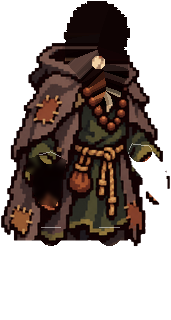
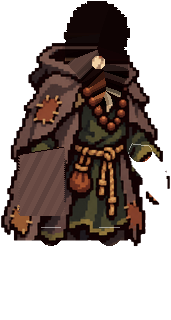
1032: townsfolk turn through a rest pose, the guard looks back with his head, hens wander and come to the grain, the hero reads a scroll

Changed region(s): [[0.0877, 0.4375, 0.3801, 0.6875]]

diff --git a/live/scene.js b/live/scene.js
@@ -819,55 +819,75 @@ void main(){ vec2 q = v_uv * 2.0 - 1.0; float r = length(q), a = atan(q.y, q.x);
   function drawFolk(f, n, m, R, GT, Y, sx, sy) {
     const i = f.i, FD = D.FOLK[f.role], X = sx(f.x), Yg = sy(f.y), id = 'npc' + i;
     if (f.role === 'hen') { const nm = ['town_hen_white', 'town_hen_red', 'town_hen_grey'][i % 3], RG = RIGS[nm]; if (!RG || !window.ASSETS[nm + '_w']) return;
-      const face = TOWN_FACE(m, n) >= n.x ? 1 : -1, [w, hh] = SZ(nm), ph = GT * 1.3 + i * 2.1, peck = Math.max(0, Math.sin(ph)) ** 6, neck = 0.9 * peck + 0.06 * Math.sin(GT * 3.1 + i), tail = 0.08 * Math.sin(GT * 2.3 + i * 1.7);
+      // (TASKS 1032) a hen walks with a bob and a rock, its neck out; at the grain it pecks quicker; startled, the tail flicks up
+      const run = SS(2, 24, Math.hypot(f.vx, f.vy)), fed = R.grain && GT - R.grain.t < 7 && Math.hypot(f.x - R.grain.x, f.y - R.grain.y) < 26;
+      const face = f.face || (TOWN_FACE(m, n) >= n.x ? 1 : -1), [w, hh] = SZ(nm), ph = GT * (fed ? 3.4 : 1.3) + i * 2.1, peck = (1 - run) * Math.max(0, Math.sin(ph)) ** (fed ? 3 : 6);
+      const st = f.dist / 5, hop = run * 2.2 * Math.abs(Math.sin(st)), rock = run * 0.09 * Math.sin(st), scare = GT - (f.scareT ?? -9);
+      const neck = 0.9 * peck + 0.06 * Math.sin(GT * 3.1 + i) - 0.22 * run, tail = 0.08 * Math.sin(GT * 2.3 + i * 1.7) - (scare >= 0 ? 0.5 * SS(0, 0.08, scare) * (1 - SS(0.3, 0.9, scare)) : 0);
       Y.push([f.y, () => { L.shadow(X, Yg + 1, 9, 3, 0.4);
-        L.inked(() => L.sprite(nm, 0, 0, { m: M.of(M.t(X, Yg), M.s(face, 1)), w, h: hh, pivot: [w / 2, hh], u: { wtex: G.tex(nm + '_w'), wsz: [RG.w, RG.h], bone0: [RG.bones[0][0] / RG.w, RG.bones[0][1] / RG.h, neck, 1], bone1: [RG.bones[1][0] / RG.w, RG.bones[1][1] / RG.h, tail, 1] } }), { r: 2, n: 8, col: [0.09, 0.04, 0.04], dy: 0 }); }]);
+        L.inked(() => L.sprite(nm, 0, 0, { m: M.of(M.t(X, Yg - hop), M.r(rock), M.s(face, 1)), w, h: hh, pivot: [w / 2, hh], u: { wtex: G.tex(nm + '_w'), wsz: [RG.w, RG.h], bone0: [RG.bones[0][0] / RG.w, RG.bones[0][1] / RG.h, neck, 1], bone1: [RG.bones[1][0] / RG.w, RG.bones[1][1] / RG.h, tail, 1] } }), { r: 2, n: 8, col: [0.09, 0.04, 0.04], dy: 0 }); }]);
       return; }
     const nm = 'town_' + f.role; if (!RIGS[nm] || !window.ASSETS[nm + '__body']) return;
     const H = SZ(nm)[1], c = D.folkClock(f.role, i, GT), u = c.u, T = m.town.svc, route = n.route;
     // the talk's weight: in over 0.35 s from the first line, out over 0.45 s when the pair is said or the hero walks off
-    const e0 = Math.min(f.sayT + D.FOLK_SAY, f.byeT > f.sayT ? f.byeT : 1e9), tw = SS(f.sayT, f.sayT + 0.35, GT) * (1 - SS(e0, e0 + 0.45, GT));
+    const e0 = Math.min(f.sayT + D.FOLK_SAY, f.byeT > f.sayT ? f.byeT : 1e9); let tw = SS(f.sayT, f.sayT + 0.35, GT) * (1 - SS(e0, e0 + 0.45, GT));
     const talkNow = GT >= f.sayT && GT < e0 + 0.2, wf = TOWN_FACE(m, n) >= n.x ? 1 : -1;
     // the child, stopped, turns to the nearest hen to throw it grain
     const hen = f.role === 'child' && route && !f.go && !talkNow ? (R.folk || []).filter((q) => q.role === 'hen').sort((a, b) => Math.hypot(a.x - f.x, a.y - f.y) - Math.hypot(b.x - f.x, b.y - f.y))[0] : null;
-    const face = hen ? (hen.x >= f.x ? 1 : -1) : (route || talkNow) && f.face ? f.face : wf;
+    // a talk with the hero on the far side of the work (TASKS 1032): the work eases into a rest pose (hands in to the body, the tool
+    // upright), the rig turns there, and only then does the talk pose come in; the same way back after. Turned straight from the
+    // work pose the whole rig flipped with the tool in it: the smith's hammer jumped 54 px in a frame. rk: the rest's weight
+    const TURN = 0.3, fIn = f.sayT + TURN, fOut = Math.max(e0, fIn + TURN) + TURN, back = !route && FD.lines && f.face && f.face !== wf && GT >= f.sayT && GT < fOut + TURN;
+    let rk = 0;
+    if (back) { rk = GT < fIn ? SS(f.sayT, fIn, GT) : GT < fOut - TURN ? 1 - SS(fIn, fIn + TURN, GT) : GT < fOut ? SS(fOut - TURN, fOut, GT) : 1 - SS(fOut, fOut + TURN, GT);
+      tw = SS(fIn, fIn + TURN, GT) * (1 - SS(fOut - TURN, fOut, GT)); }
+    const face = hen ? (hen.x >= f.x ? 1 : -1) : back ? (GT >= fIn && GT < fOut ? f.face : wf) : (route || talkNow) && f.face ? f.face : wf;
+    const RG = RIGS[nm], s = H / RG.h, gy = RG.foot ?? RG.footL[1], handAt = (sd, k = 1, dy = 0) => [X + face * k * (RG['hand' + sd][0] - RG.gap) * s, Yg + (RG['hand' + sd][1] + dy - gy) * s];
     const P = (dx, dy) => [X + face * dx * H, Yg + dy * H], mir = (q) => [X + (q[0] - X) * face * wf, q[1]];
     const talkR = P(0.27, -0.52 + 0.025 * Math.sin(GT * 5.3 + i)), talkL = P(0.08, -0.36);
     const atStop = route && !f.go, pu = GT - f.t0, stop = route && f.way >= 0 ? route[f.way] : null, moving = Math.hypot(f.vx, f.vy) > 2;
-    let tg = {}, hold = null, lean = 0, headR = 0, crouch = 0, front = null, robe = null, fx = null;
+    let tg = {}, hold = null, lean = 0, headR = 0, headF = 1, crouch = 0, front = null, robe = null, fx = null;
     if (f.role === 'smith') {
       // a blow every loop, every 4th a breather (the hammer down, the piece turned in the tongs): up over the head, down faster and
       // faster onto the anvil, a small rebound, back up to the start
       const A = T.anvil, top = [sx(A.x) - wf * 4, sy(A.y) - 0.82 * SZ('anvil_tw')[1]], brk = c.n % FD.rest === FD.rest - 1, hit = FD.hit;
-      const imp = [top[0] - wf * 21, top[1] - 5], lift = [imp[0] - wf * 3, imp[1] - 10], cock = [X + wf * 0.08 * H, Yg - 0.96 * H];
-      // the hammer's angle (as if facing right) rides the same path: its handle back over the shoulder at the top, level on the blow
-      const UPA = -2.6, IMPA = 0.12, RESTA = 0.9;
+      const imp = [top[0] - wf * 21, top[1] - 5], cock = [X + wf * 0.08 * H, Yg - 0.96 * H];
+      // the hammer's angle (as if facing right) rides the same path: its handle back over the shoulder at the top, level on the blow.
+      // Off the rebound it goes straight back up, over the loop's turn to the top (TASKS 1032: it lay on the anvil 0.55 s)
+      const UPA = -2.6, IMPA = 0.12, RESTA = 0.9, R0 = hit + 0.1, span = 1 - R0 + 0.42, x0 = (1 - R0) / span;
+      const raise = (x) => { const k = E01(x); return [lerp2(imp, cock, k), lerp1(IMPA, UPA, k)]; };
       let hr, ha;
-      if (brk) { const k = Math.sin(Math.PI * u) ** 2; hr = lerp2(lift, [X + wf * 0.22 * H, Yg - 0.36 * H], k); ha = lerp1(IMPA - 0.2, RESTA, k); }
-      else if (u < 0.42) { const k = E01(u / 0.42); hr = lerp2(lift, cock, k); ha = lerp1(IMPA - 0.2, UPA, k); }
-      else if (u < hit) { const x = (u - 0.42) / (hit - 0.42); hr = lerp2(cock, imp, x * x); ha = lerp1(UPA, IMPA, x * x); }
-      else if (u < hit + 0.1) { const b = Math.sin(Math.PI * (u - hit) / 0.1); hr = [imp[0], imp[1] - 5 * b]; ha = IMPA - 0.15 * b; }
-      else { const k = E01((u - hit - 0.1) / (0.9 - hit)); hr = lerp2(imp, lift, k); ha = lerp1(IMPA, IMPA - 0.2, k); }
+      if (brk) { const k = Math.sin(Math.PI * u) ** 2, [p0, a0] = raise(x0); hr = lerp2(p0, [X + wf * 0.22 * H, Yg - 0.36 * H], k); ha = lerp1(a0, RESTA, k); }
+      else if (u < 0.42 || u >= R0) [hr, ha] = raise(((u - R0 + 1) % 1) / span);
+      // down faster and faster, meeting the anvil at a little over its mean speed (a squared ease met it at twice that: the hand broke
+      // 6 px in a frame), then a rebound that starts from rest
+      else if (u < hit) { const x = (u - 0.42) / (hit - 0.42), q = 1.9 * x * x - 0.9 * x * x * x; hr = lerp2(cock, imp, q); ha = lerp1(UPA, IMPA, q); }
+      else { const b = Math.sin(Math.PI * (u - hit) / 0.1) ** 2; hr = [imp[0], imp[1] - 5 * b]; ha = IMPA - 0.15 * b; }
       const hl = [top[0] - wf * 9, top[1] + 3 - (brk ? 7 * Math.sin(Math.PI * u) ** 2 : 0)];
       tg = { R: lerp2(mir(hr), talkR, tw), L: lerp2(mir(hl), talkL, tw) };
       hold = { R: TOOL('town_tool_hammer', 0.84, { abs: lerp1(ha, RESTA, tw) }), L: TOOL('town_tool_tongs', 0.7, { rel: -1.1 }) };
-      lean = face * (0.05 + 0.05 * (!brk && u > 0.45 && u < hit + 0.1 ? 1 : 0)) * (1 - tw); headR = 0.14 * (1 - tw) - 0.05 * tw;
+      // he leans into the blow and his knees give on it, eased: the lean switched on in a frame
+      const into = brk ? 0 : SS(0.38, 0.5, u) * (1 - SS(hit + 0.05, hit + 0.3, u));
+      lean = face * (0.05 + 0.05 * into) * (1 - tw); crouch = 9 * (brk ? 0 : bump01(u, 0.45, hit + 0.3)) * (1 - tw); headR = 0.14 * (1 - tw) - 0.05 * tw;
       if (!brk && u >= hit && (u - hit) * c.per < 0.45 && tw < 0.5) fx = { k: 'spark', x: top[0], y: top[1], a: (u - hit) * c.per, seed: c.n * 7 + i };
     } else if (f.role === 'keeper') {
       // leans on his staff and dozes off (the head sinks, jerks up), now and then pokes the fire: embers fly up on the poke
-      const Fp = [sx(T.fire.x), sy(T.fire.y)], poke = bump01(u, 0.12, 0.42), dz = SS(0.5, 0.9, u) * (1 - SS(0.93, 0.97, u));
-      const reachP = [X + (Fp[0] - X) * 0.42, Yg - 0.36 * H];
-      tg = { R: lerp2(lerp2(P(0.2, -0.5), mir(reachP), poke), talkR, tw * 0.6) };
-      hold = { R: TOOL('town_tool_staff', 0.5, { abs: -Math.PI / 2 + 0.06 * Math.sin(GT * 0.9 + i) - poke * 0.95 * (1 - tw) }) };
-      headR = (0.32 * dz + 0.1 * poke) * (1 - tw) - 0.05 * tw; lean = face * (0.04 * dz + 0.1 * poke) * (1 - tw);
+      // the staff stands out in front of him, its crook leaning off his face (TASKS 1032: it covered it); the poke is the arm's: the hand
+      // goes out and down by IK, he crouches and leans in, and the staff turns its foot to the embers
+      const Fp = [sx(T.fire.x), sy(T.fire.y)], poke = bump01(u, 0.12, 0.42) * (1 - tw), dz = SS(0.5, 0.9, u) * (1 - SS(0.93, 0.97, u));
+      const lean0 = 0.2 + 0.05 * Math.sin(GT * 0.9 + i), stand = P(0.32, -0.47), out = [X + (Fp[0] - X) * 0.5, Yg - 0.3 * H], hand = lerp2(stand, mir(out), poke);
+      const ember = [Fp[0], Fp[1] - 6], dn = Math.atan2(ember[1] - hand[1], ember[0] - hand[0]), aim0 = face > 0 ? dn + Math.PI : -dn, aim = -Math.PI / 2 + lean0 + wrapPi(aim0 + Math.PI / 2 - lean0);
+      tg = { R: lerp2(hand, talkR, tw * 0.6) };
+      hold = { R: TOOL('town_tool_staff', 0.5, { abs: lerp1(-Math.PI / 2 + lean0, aim, poke) }) };
+      headR = (0.32 * dz + 0.1 * poke) * (1 - tw) - 0.05 * tw; lean = face * (0.04 * dz + 0.16 * poke) * (1 - tw); crouch = 14 * poke;
       if (u > 0.27 && u < 0.27 + 1.2 / c.per && tw < 0.5) fx = { k: 'embers', x: Fp[0], y: Fp[1] - 14, a: (u - 0.27) * c.per, seed: c.n * 5 + i };
     } else if (f.role === 'guard') {
       // shifts his weight, now and then looks back over the yard, the spear upright in his hand
-      const look = u > 0.52 && u < 0.7 && tw < 0.5;
+      // the look back is the head's alone (TASKS 1032): mirroring the whole guard swung his arm 39 px and the spear across
+      const look = (1 - SS(0, 0.5, tw)) * SS(0.52, 0.57, u) * (1 - SS(0.65, 0.7, u));
       tg = { R: lerp2(P(0.24, -0.42 - 0.01 * Math.sin(GT * 0.7 + i)), talkR, tw * 0.5) };
       hold = { R: TOOL('town_tool_spear', 0.58, { abs: -Math.PI / 2 - 0.05 }) };
-      lean = 0.025 * Math.sin(2 * Math.PI * u) * face; headR = -0.03 + 0.05 * Math.sin(4 * Math.PI * u);
-      if (look) return drawFolkRig(f, n, nm, X, Yg, H, -face, GT, Y, { hold, handTarget: (sd) => (sd === 'R' ? [X - face * 0.24 * H, Yg - 0.42 * H] : null), lean: -lean, headR });
+      lean = 0.025 * Math.sin(2 * Math.PI * u) * face; headR = -0.03 + 0.05 * Math.sin(4 * Math.PI * u) * (1 - look) - 0.06 * look; headF = Math.cos(Math.PI * look);
     } else if (f.role === 'porter') {
       // the crate: in both hands in front of the chest while he carries it; at a stop he bends, lifts it off the floor or sets it down,
       // only what the sim says he did there (f.lift): a crate is never drawn into or out of hands that did not hold it
@@ -904,22 +924,28 @@ void main(){ vec2 q = v_uv * 2.0 - 1.0; float r = length(q), a = atan(q.y, q.x);
       // reads at the lectern, turns a page, then lifts a flask and burns it: a cold blue flame in the hand
       const Lc = T.lectern, book = [sx(Lc.x) - wf * 2, sy(Lc.y) - 0.72 * SZ('lectern_tw')[1]], page = bump01(u, 0.1, 0.32), flask = bump01(u, 0.4, 0.85);
       const hr = [book[0] - wf * (10 - 16 * page), book[1] - 4 * page];
-      tg = { R: lerp2(mir(hr), talkR, tw), L: flask > 0.01 && tw < 0.99 ? lerp2(P(0.05, -0.36), P(0.24, -0.8), flask * (1 - tw)) : null };
+      // the flask hand always has a target, from where it hangs at rest: let go to the rig's own rest it clicked 18 px (TASKS 1032)
+      const lf = 1 + 2.5 * Math.sin(GT * 1.7 + i * 1.7);
+      tg = { R: lerp2(mir(hr), talkR, tw), L: lerp2(handAt('L', 1, lf), P(0.24, -0.8), flask * (1 - tw)) };
+      hold = { L: TOOL('it_mp', 0.3, { abs: -Math.PI / 2 + 0.25 * flask * (1 - tw), len: 0.15 * H }) };
       robe = { lift: 1, headR: lerp1(0.18 * (1 - flask) - 0.12 * flask, -0.05, tw) };
       const burn = bump01(u, 0.5, 0.78) * (1 - tw); if (burn > 0.02) fx = { k: 'flame', hand: 'L', amt: burn, seed: c.n + i };
     }
+    if (rk > 0) { for (const sd of ['L', 'R']) tg[sd] = lerp2(tg[sd] || handAt(sd), handAt(sd, 0.35), rk);
+      if (hold) hold = Object.fromEntries(Object.entries(hold).map(([sd, q]) => [sd, q.abs === undefined ? q : Object.assign({}, q, { abs: lerp1(q.abs, -Math.PI / 2, rk) })]));
+      lean *= 1 - rk; crouch *= 1 - rk; headR = lerp1(headR, -0.08, rk); if (robe) robe.headR = lerp1(robe.headR, -0.08, rk); if (rk > 0.3) fx = null; }
     if (tw > 0 && !robe) headR = lerp1(headR, -0.06 + 0.04 * Math.sin(GT * 4.1 + i), tw);
-    drawFolkRig(f, n, nm, X, Yg, H, face, GT, Y, { hold, handTarget: (sd) => tg[sd] || null, lean, headR, crouch, front, robe, fx });
+    drawFolkRig(f, n, nm, X, Yg, H, face, GT, Y, { hold, handTarget: (sd) => tg[sd] || null, lean, headR, headF, crouch, front, robe, fx });
     // the crate the porter set down by the merchant waits there until he brings the next
     if (f.role === 'porter' && !f.load && route) { const dp = route.find((q) => q.act === 'drop'), atDrop = atStop && f.lift === 'drop';
       if (dp && !atDrop) { const cw = 0.3 * H, x = sx(dp.x) - 0.33 * H, y = sy(dp.y) - 0.14 * H; Y.push([dp.y - 1, () => L.inked(() => L.sprite('town_tool_crate', x - cw / 2, y - cw / 2, { w: cw, h: cw }), { r: 2, n: 8, col: [0.09, 0.04, 0.04], dy: 0 })]); } }
   }
   function drawFolkRig(f, n, nm, X, Yg, H, face, GT, Y, o) {
     const id = 'npc' + f.i, seed = f.i * 1.7, fx = o.fx;
-    Y.push([f.y, () => { L.shadow(X, Yg + 2, 0.24 * H, 6, 0.45);
+    Y.push([f.y, () => { L.shadow(X, Yg + 2, 0.24 * H, 6, 0.45); L.joint(id + '_view', 'face', [face, 0]);
       let hand = null;
       L.inked(() => { const r = RIGS[nm].neck ? MONSTERS.robed({ id, n: nm, x: X, y: Yg, H, t: GT, face, seed, dist: f.dist, vx: f.vx, vy: f.vy, U: {}, hold: o.hold, handTarget: o.handTarget, lift: o.robe && o.robe.lift, headR: o.robe && o.robe.headR })
-        : MONSTERS.biped({ id, n: nm, x: X, y: Yg, H, face, t: GT, seed, dist: f.dist, vx: f.vx, vy: f.vy, U: {}, Ufar: {}, hold: o.hold, handTarget: o.handTarget, lean: o.lean, headR: o.headR, crouch: o.crouch, front: o.front });
+        : MONSTERS.biped({ id, n: nm, x: X, y: Yg, H, face, t: GT, seed, dist: f.dist, vx: f.vx, vy: f.vy, U: {}, Ufar: {}, hold: o.hold, handTarget: o.handTarget, lean: o.lean, headR: o.headR, headF: o.headF, crouch: o.crouch, front: o.front });
         if (r && fx && fx.hand) hand = r.hand ? r.hand(fx.hand) : r.R2U(r.arms[fx.hand].Hd[0], r.arms[fx.hand].Hd[1]); }, { r: 2, n: 8, col: [0.09, 0.04, 0.04], dy: 0 });
       if (fx) RIM.folk.push(Object.assign({}, fx, hand ? { x: hand[0], y: hand[1] } : {}));
       if (fx && (fx.k === 'grain' || fx.k === 'dust')) folkDust(fx, GT); }]);
@@ -1353,6 +1379,9 @@ void main(){ vec2 q = v_uv * 2.0 - 1.0; float r = length(q), a = atan(q.y, q.x);
       const l = armLen(arms.L); reach(arms.L, 0.25 * l + Math.cos(aimL) * 0.6 * l, Math.sin(aimL) * 0.6 * l, castE);
       pose(arms.R, -0.25, 0.35, castE);
     }
+    // reading a scroll (TASKS 1032): the free hand holds it out before the chest, the sword arm lowered
+    const readE = h.read && swingK === 0 && whirlE === 0 && castE === 0 ? SS(0, 0.3, GT - h.read.t0) : 0;
+    if (readE > 0) { const l = armLen(arms.L); reach(arms.L, 0.6 * l, 0.12 * l, readE); pose(arms.R, -0.2, 0.3, readE); }
     if (dashE > 0) { pose(arms.L, 0.55 * dashF, 0.45, dashE); pose(arms.R, 0.55 * dashF, 0.45, dashE); }
     if (hurtE > 0 && swingK === 0) { pose(arms.L, -0.45, 0.5, hurtE); pose(arms.R, -0.3, 0.45, hurtE); }
     if (o.victory) { reach(arms.R, armLen(arms.R) * 0.32, -armLen(arms.R) * 0.88, 1); pose(arms.L, -0.25, 0.2, 1); bladeA = -Math.PI / 2 + 0.08; }
@@ -1379,6 +1408,8 @@ void main(){ vec2 q = v_uv * 2.0 - 1.0; float r = length(q), a = atan(q.y, q.x);
     const shield = (u) => { if (!GR.shield) return; const [tex, hh] = GR.shield, A = arms.L, E = R2U(jL.E[0], jL.E[1]), Hd = R2U(jL.Hd[0], jL.Hd[1]), ww = hh * G.tex(tex).w / G.tex(tex).h;
       const c = [E[0] + 0.55 * (Hd[0] - E[0]) - fX * 4, E[1] + 0.55 * (Hd[1] - E[1])], back = backK > 0.5;
       L.sprite(tex, 0, 0, { m: M.of(M.t(c[0], c[1]), M.r(fallR + bodyR + 0.25 * (A.r2 - 0.18)), M.s(fX, 1)), w: ww, h: hh, pivot: [ww / 2, hh / 2], u: back ? Object.assign({}, u, { grade: [0.35, 0.45, 0, 1] }) : tinted(u, GR.shieldTint) }); };
+    const scroll = () => { const Hd = R2U(jL.Hd[0], jL.Hd[1]), w = 22, hh = w * 177 / 228;
+      L.sprite('it_scroll', 0, 0, { m: M.of(M.t(Hd[0], Hd[1]), M.r(fallR + bodyR - 0.35 * fX), M.s(fX, 1)), w, h: hh, pivot: [w * 0.45, hh * 0.55], u: Object.assign({}, U, { alpha: alpha * SS(0.3, 0.5, readE) }) }); };
     const weapon = () => { if (!W || SC.hide.weapon) return; const [tex, len] = W, Hd = R2U(jR.Hd[0], jR.Hd[1]), b0 = -0.95 + arms.R.r1 * 0.5, ba = bladeA !== null ? bladeA : b0 + (0.9 - b0) * castE;
       let sa = Math.atan2(Math.sin(ba), fX * Math.cos(ba)) + fallR + bodyR;           // screen angle of the blade, squeezed with the rig
       // a slash sweeps flat around the body: on the floor plane the camera squeezes depth to DEPTH_K, so a blade pointing up or down
@@ -1395,7 +1426,7 @@ void main(){ vec2 q = v_uv * 2.0 - 1.0; float r = length(q), a = atan(q.y, q.x);
     L.joint(id + '_view', 'back', [backK, 0]);
     L.joint(id + '_view', 'face', [face, 0]);
     const all = () => {
-      const castFront = castE > 0.3;   // the casting hand reaches forward across the chest, in front of the body
+      const castFront = castE > 0.3 || readE > 0.3;   // the casting (or reading) hand reaches forward across the chest, in front of the body
       const bodyAt = { m: M.of(M.t(...hipS), M.r(fallR + bodyR), M.s(fX, 1)), w: RG.w * s, h: RG.h * s, pivot: [Hc[0] * s, Hc[1] * s] };
       if (!castFront) drawArm('L', Ufar);
       // seen from the front the cape's flap hangs over the far arm, as painted, but behind both legs
@@ -1407,7 +1438,7 @@ void main(){ vec2 q = v_uv * 2.0 - 1.0; float r = length(q), a = atan(q.y, q.x);
       if (backK < 1 && GR.helm) L.sprite('hero__head_' + GR.helm, 0, 0, Object.assign({ u: Object.assign(tinted(U, GR.helmTint), { snap: 2 * L.SNAP }) }, bodyAt));
       if (backK > 0 && window.ASSETS.hero__body_back) L.sprite(GR.back, 0, 0, Object.assign({ u: Object.assign({}, U, { alpha: alpha * backK }, soft('hero__body_back', capeB, GR.helm ? 0 : hairA)) }, bodyAt));
       if (backK > 0 && GR.helm) L.sprite('hero__head_back_' + GR.helm, 0, 0, Object.assign({ u: Object.assign({}, tinted(U, GR.helmTint), { alpha: alpha * backK }) }, bodyAt));
-      if (castFront) { drawArm('L', backK > 0.5 ? Ufar : U); shield(backK > 0.5 ? Ufar : U); }
+      if (castFront) { drawArm('L', backK > 0.5 ? Ufar : U); shield(backK > 0.5 ? Ufar : U); if (readE > 0.3) scroll(); }
       if (!behind) { drawArm('R', U); weapon(); }
     };
     all();
@@ -4215,6 +4246,20 @@ void main(){ vec2 q = v_uv * 2.0 - 1.0; float r = length(q), a = atan(q.y, q.x);
       transitions.folk_porter_take = Array.from({ length: 110 }, (_, k) => { const S = structuredClone(base); S.t += k / 60; return S; }); folkSubj.folk_porter_take = 'npc' + i; }
     { let i = 0; const base = folkS((S, R, m, h) => { const f = folkAt(R, 'smith'); i = f.i; const c = D.folkClock('smith', i, S.t); S.t += ((0.72 - c.u + 1) % 1) * c.per; h.x = f.x + 46; h.y = f.y + 16; f.near = 1; f.sayT = S.t + 0.1; f.sayN = 0; f.face = 1; camOn(R, f); });
       transitions.folk_talk = Array.from({ length: 60 }, (_, k) => { const S = structuredClone(base); S.t += k / 60; return S; }); folkSubj.folk_talk = 'npc' + i; }
+    // (TASKS 1032) the turns and the loops' own moments frame by frame at 1/60 s, for the trace's jump check: the smith turning to a
+    // hero on the far side of the anvil and back again, the guard's look back over the yard, the smith's blows into a breather,
+    // the keeper's poke at the fire, the enchanter's flask raised and lowered
+    const frames = (nm, base, n, i) => { transitions[nm] = Array.from({ length: n }, (_, k) => { const S = structuredClone(base); S.t += k / 60; return S; }); folkSubj[nm] = 'npc' + i; };
+    for (const [nm, out] of [['folk_talk_back', 0], ['folk_talk_back_out', 1]]) { let i = 0;
+      const base = folkS((S, R, m, h) => { const f = folkAt(R, 'smith'), n = m.town.npcs[f.i], wf = TOWN_FACE(m, n) >= n.x ? 1 : -1; i = f.i;
+        h.x = f.x - wf * (out ? 200 : 46); h.y = f.y + 16; f.near = out ? 0 : 1; f.sayT = S.t + 0.1 - (out ? 2 : 0); f.byeT = out ? S.t + 0.1 : -9; f.sayN = 0; f.face = -wf; camOn(R, f); });
+      frames(nm, base, 80, i); }
+    const atU = (role, u0) => { let i = 0; const base = folkS((S, R) => { const f = folkAt(R, role); i = f.i; const c = D.folkClock(role, i, S.t); S.t += ((u0 - c.u + 1) % 1) * c.per; camOn(R, f); }); return [base, i]; };
+    { const [b, i] = atU('guard', 0.5); frames('folk_guard_look', b, 110, i); }
+    { let i = 0; const base = folkS((S, R) => { const f = folkAt(R, 'smith'); i = f.i; const c = D.folkClock('smith', i, S.t), rest = D.FOLK.smith.rest;
+      const d = (rest - 2 - c.n % rest + rest) % rest + 0.5 - c.u; S.t += (d < 0 ? d + rest : d) * c.per; camOn(R, f); }); frames('folk_smith_blow', base, Math.round(2 * D.FOLK.smith.per * 60), i); }
+    { const [b, i] = atU('keeper', 0.08); frames('folk_keeper_poke', b, Math.round(0.38 * D.FOLK.keeper.per * 60), i); }
+    { const [b, i] = atU('enchanter', 0.36); frames('folk_enchanter_flask', b, Math.round(0.52 * D.FOLK.enchanter.per * 60), i); }
     states.push(['town_talk', folkS((S, R, m, h) => { const f = folkAt(R, 'smith'); h.x = f.x - 46; h.y = f.y + 18; f.near = 1; f.sayT = S.t - 1; f.sayN = 1; f.face = -1; camOn(R, f); })]);
     states.push(['town_talk_line2', folkS((S, R, m, h) => { const f = folkAt(R, 'porter'); Object.assign(f, { x: 22 * TILE, y: 12 * TILE + 16, load: 1, go: 1, way: 2, face: -1 }); h.x = f.x - 60; h.y = f.y - 4; f.near = 1; f.sayT = S.t - 3.4; f.sayN = 2; camOn(R, f); })]);
     states.push(['town_folk_talk_all', folkS((S, R, m, h) => { for (const f of R.folk) if (D.FOLK[f.role].lines) { f.near = 1; f.sayT = S.t - 1; f.sayN = 0; f.face = 1; } const r = m.rooms[0]; R.cam = [(r.x + r.w / 2) * TILE - VW / 2, (r.y + r.h / 2) * TILE - VH / 2]; })]);

diff --git a/live/sim.js b/live/sim.js
@@ -1347,6 +1347,19 @@
   // a talk lasts FOLK_SAY s from its start, or ends when the hero walks off
   const folkTalk = (f, t) => f.near && t - f.sayT < D.FOLK_SAY;
   const folkPause = (f, stop) => (f.role === 'porter' ? (stop && stop.act ? 1.8 : 0) : D.FOLK[f.role].pause || 0);
+  // a hen (TASKS 1032): scatters from the hero who comes close (and from a walker's feet), runs to the child's grain and pecks there, else wanders about its
+  // place a few steps at a time. f.goal { x, y, v, k: the grain it came for }; f.next: when it may pick its next spot
+  const henRnd = (a, b) => { const x = Math.sin(a * 12.9898 + b * 78.233) * 43758.5453; return x - Math.floor(x); };
+  function henGoal(R, f, n, t) {
+    const h = R.hero, dh = Math.hypot(h.x - f.x, (h.y - f.y) * 1.25), w = R.folk.find((q) => q.go && q.spd > 4 && Math.hypot(q.x - f.x, (q.y - f.y) * 1.25) < 34), sc = h.deadT < 0 && dh < 58 ? h : w;
+    if (sc) { const a = Math.atan2(f.y - sc.y, f.x - sc.x) + 0.6 * (henRnd(f.i, Math.floor(t)) - 0.5); f.next = t + 1 + henRnd(f.i, t); f.scareT = t;
+      return (f.goal = { x: f.x + Math.cos(a) * 44, y: f.y + Math.sin(a) * 30, v: 80 }); }
+    const gr = R.grain; if (gr && t - gr.t < 7 && Math.hypot(gr.x - f.x, gr.y - f.y) < 190 && (!f.goal || f.goal.k !== gr.t))
+      f.goal = { x: gr.x + 18 * (henRnd(f.i, gr.t) - 0.5), y: gr.y + 10 * (henRnd(gr.t, f.i) - 0.5), v: 42, k: gr.t };
+    if (f.goal && f.goal.k && t - f.goal.k > 7) f.goal = null;
+    if (!f.goal && t >= (f.next || 0)) { const a = 2 * Math.PI * henRnd(f.i, t), r = 10 + 26 * henRnd(t, f.i);
+      f.goal = { x: n.x + Math.cos(a) * r, y: n.y + Math.sin(a) * r * 0.6, v: 22 }; f.next = t + 2 + 3 * henRnd(f.i + 7, t); }
+    return f.goal; }
   function stepFolk(S, R) {
     const m = R.map, h = R.hero, t = S.t, F = folkOf(R), alive = h.deadT < 0;
     for (const f of F) { const n = m.town.npcs[f.i], FD = D.FOLK[f.role], r = folkR(f);
@@ -1358,10 +1371,16 @@
         if ((a.n === b.n ? a.u < FD.hit && b.u >= FD.hit : b.u >= FD.hit) && b.n % FD.rest !== FD.rest - 1) ev(S, { k: 'anvil', x: f.x, y: f.y }); }
       const route = n.route;
       if (folkTalk(f, t)) f.face = h.x >= f.x ? 1 : -1;
-      if (!route) { f.spd = 0; continue; }
+      // the child's handful of grain lands ahead of him, toward the nearest hen: the hens come for it (TASKS 1032)
+      if (f.role === 'child' && route && !f.go && f.way >= 0 && !folkTalk(f, t)) { const a = D.folkClock('child', f.i, t - DT), b = D.folkClock('child', f.i, t);
+        if (a.n === b.n && a.u < 0.47 && b.u >= 0.47) { const hn = F.filter((q) => q.role === 'hen').sort((p, q) => Math.hypot(p.x - f.x, p.y - f.y) - Math.hypot(q.x - f.x, q.y - f.y))[0], dir = hn && hn.x < f.x ? -1 : 1;
+          R.grain = { x: f.x + dir * 55, y: f.y + 4, t }; } }
       let want = 0, ux = 0, uy = 0;
-      if (!folkTalk(f, t) && !f.go && t >= f.t0 + folkPause(f, route[f.way])) { f.go = 1; f.way = (f.way + 1) % route.length; f.stuck = 0; f.lift = 0; }
-      if (f.go && !folkTalk(f, t)) { const tg = route[f.way], dx = tg.x - f.x, dy = tg.y - f.y, d = Math.hypot(dx, dy);
+      if (f.role === 'hen') { const g = henGoal(R, f, n, t);
+        if (g) { const dx = g.x - f.x, dy = g.y - f.y, d = Math.hypot(dx, dy); if (d > 2.5) { want = Math.min(g.v, d * 4 + 6); ux = dx / d; uy = dy / d; } else if (!g.k) f.goal = null; } }
+      else if (!route) { f.spd = 0; continue; }
+      if (route && !folkTalk(f, t) && !f.go && t >= f.t0 + folkPause(f, route[f.way])) { f.go = 1; f.way = (f.way + 1) % route.length; f.stuck = 0; f.lift = 0; }
+      if (route && f.go && !folkTalk(f, t)) { const tg = route[f.way], dx = tg.x - f.x, dy = tg.y - f.y, d = Math.hypot(dx, dy);
         if (d < 1.5) { f.go = 0; f.t0 = t; f.x = tg.x; f.y = tg.y; f.spd = 0;
           // f.lift: what he did at this stop, for the render's bend; a pick-up with the crate in hand (a stop skipped) is no lift
           f.lift = tg.act === 'take' && !f.load || tg.act === 'drop' && f.load ? tg.act : 0; if (f.lift) { f.load = f.lift === 'take' ? 1 : 0; ev(S, { k: 'toss', x: f.x, y: f.y }); } }
@@ -1376,7 +1395,7 @@
       for (const a of [0, 0.6, -0.6, 1.2, -1.2]) { const c = Math.cos(a), sn = Math.sin(a), vx = ux * c - uy * sn, vy = ux * sn + uy * c, x = f.x + vx * step, y = f.y + vy * step;
         if (!folkFree(m, x, y, r) || near(x, y)) continue;
         f.x = x; f.y = y; f.vx = vx * f.spd; f.vy = vy * f.spd; f.dist += step; moved = true; break; }
-      if (!moved) { f.vx = f.vy = 0; f.spd = 0; if ((f.stuck += DT) > 4) { f.way = (f.way + 1) % route.length; f.stuck = 0; } } else f.stuck = 0;
+      if (!moved) { f.vx = f.vy = 0; f.spd = 0; if (!route) { f.goal = null; continue; } if ((f.stuck += DT) > 4) { f.way = (f.way + 1) % route.length; f.stuck = 0; } } else f.stuck = 0;
       if (Math.abs(f.vx) > 3) f.face = f.vx > 0 ? 1 : -1; }
     // the merchant calls the hero over from across the yard, every so often
     if (m.shop && R.shop) { const d = Math.hypot(h.x - m.shop.x, h.y - m.shop.y);
@@ -4432,9 +4451,10 @@
     for (const [role, F] of Object.entries(D.FOLK)) if (F.lines && !F.lines.every((p) => p.length === 2 && p.every((q) => typeof q === 'string' && q.length > 3 && q.length <= 34))) out.push(`folk: the ${role}'s lines are not pairs of short lines`);
     for (const sd of [3, 11, 29]) { const S = spawn(0, {}); S.run = newRun(S, 'campaign', sd, { town: 1 }); S.screen = 'play'; const R = S.run, m = R.map, h = R.hero;
       h.x = m.town.svc.bin.x + TILE; h.y = m.town.svc.bin.y;
-      const F = folkOf(R), stops = F.map(() => new Set()), loads = new Set(), stuck = F.map(() => 0), lifts = []; let close = 9, off = 0, rings = 0, empty = 0;
+      const F = folkOf(R), stops = F.map(() => new Set()), loads = new Set(), stuck = F.map(() => 0), lifts = [], henWalk = F.map(() => 0); let close = 9, off = 0, rings = 0, empty = 0, fed = 0;
       for (let i = 0; i < 120 * 120; i++) { const t0 = S.t; step(S, { keys: [] }); rings += S.ev.filter((e) => e.k === 'anvil' && e.t > t0).length;
-        for (const f of F) { if (!f.go && f.way >= 0) stops[f.i].add(f.way); stuck[f.i] = Math.max(stuck[f.i], f.stuck);
+        for (const f of F) { if (!f.go && f.way >= 0) stops[f.i].add(f.way); stuck[f.i] = Math.max(stuck[f.i], f.stuck); henWalk[f.i] = f.dist;
+          if (f.role === 'hen' && R.grain && S.t - R.grain.t < 6 && Math.hypot(f.x - R.grain.x, f.y - R.grain.y) < 24) fed = 1;
           if (f.role === 'porter') { loads.add(f.load); if (f.lift && lifts[lifts.length - 1]?.t !== f.t0) lifts.push({ k: f.lift, t: f.t0 });
             const st = m.town.npcs[f.i].route[f.way]; if (!f.go && st.act && f.t0 === S.t && !f.lift) empty++; } if (m.town.npcs[f.i].route && !folkFree(m, f.x, f.y, folkR(f))) off++;
           for (const o of F) if (o.i > f.i) close = Math.min(close, Math.hypot(o.x - f.x, (o.y - f.y) * 1.4) / (folkR(o) + folkR(f))); } }
@@ -4448,6 +4468,11 @@
       if (lifts.some((q, j) => j && q.k === lifts[j - 1].k)) out.push(`folk ${sd}: the porter lifts or sets down twice running: a crate out of nowhere`);
       if (empty) out.push(`folk ${sd}: the porter comes to a pick-up or a set-down with nothing to do ${empty} times`);
       for (const f of F) if (stuck[f.i] > 2) out.push(`folk ${sd}: the ${f.role} stands blocked ${stuck[f.i].toFixed(1)} s`);
+      // TASKS 1032: the hens walk about, come to the child's grain and scatter from the hero
+      const hens = F.filter((f) => f.role === 'hen');
+      for (const f of hens) if (henWalk[f.i] < 40) out.push(`folk ${sd}: a hen walks ${henWalk[f.i].toFixed(0)} px in two minutes`);
+      if (!fed) out.push(`folk ${sd}: no hen comes to the child's grain`);
+      { const q = hens[0], R0 = q.x; h.x = q.x - 40; h.y = q.y; for (let i = 0; i < 60; i++) step(S, { keys: [] }); if (q.x - R0 < 15) out.push(`folk ${sd}: a hen does not scatter from the hero`); h.x = m.town.svc.bin.x + TILE; h.y = m.town.svc.bin.y; }
       if (rings < 40) out.push(`folk ${sd}: the anvil rings ${rings} times in two minutes`);
       const smith = F.find((f) => f.role === 'smith'); h.x = smith.x - 50; h.y = smith.y + 10; const t0 = S.t; step(S, { keys: [] });
       if (smith.sayT !== t0 + DT && smith.sayT !== S.t || !S.ev.some((e) => e.k === 'say' && e.role === 'smith')) out.push(`folk ${sd}: the smith says nothing to the hero beside him`);

diff --git a/live/monsters.js b/live/monsters.js
@@ -113,7 +113,7 @@
       const spin = (o.n === 'colossus' && ribs ? ((Math.cos(CK.dir ?? 0) >= 0 ? 1 : -1) * 1.35 - lean) * SS(0.12, 0.9, cr) : (ribs ? (hsh(key, 4) - 0.5) * (top ? 0.5 : 1) : (hsh(key, 4) - 0.5) * 3 * sc) * SS(0, tl + 0.12, tt)) + roll / (0.1 * H);
       return (CR[key] = M.of(M.t(c[0] + dx, c[1] + dy), M.r(spin), M.t(-c[0], -c[1]))); };
     const piece = (key, at, f, c) => { const m = crOf(key, at, c), pre = L.pre; if (m) L.pre = pre ? M.mul(pre, m) : m; try { f(); } finally { L.pre = pre; } };
-    const tx = o.tex || o.n, part = (nm, pv, at, rot, u, k = 1, up = 0) => piece(nm, at, () => L.sprite(tx + '__' + nm, 0, 0, { m: M.of(M.t(at[0], at[1]), M.r(fallR + up), M.s(face, 1), M.r(rot), M.s(1, k)), w: RG.w * s, h: RG.h * s, pivot: [pv[0] * s, pv[1] * s], u }));
+    const tx = o.tex || o.n, part = (nm, pv, at, rot, u, k = 1, up = 0, fx = 1) => piece(nm, at, () => L.sprite(tx + '__' + nm, 0, 0, { m: M.of(M.t(at[0], at[1]), M.r(fallR + up), M.s(face * fx, 1), M.r(rot), M.s(1, k)), w: RG.w * s, h: RG.h * s, pivot: [pv[0] * s, pv[1] * s], u }));
     const drawLeg = (side, u) => { const g = legs[side];
       part('thigh' + side, g.H0, R2S(g.Hp[0], g.Hp[1]), g.r1, u, g.k1); part('shin' + side, g.K0, R2S(g.K[0], g.K[1]), g.r2, u, g.k2); part('foot' + side, g.A0, R2S(g.T[0], g.T[1]), -g.lift * 0.02, u); };
     const drawArm = (side, u) => { const A = arms[side]; part('uarm' + side, A.S0, R2U(A.Sp[0], A.Sp[1]), A.r1, u, 1, lean); part('farm' + side, A.E0, R2U(A.E[0], A.E[1]), A.r2, u, 1, lean); };
@@ -156,8 +156,9 @@
     if (RG.earL) { const flop = 0.11 * run * Math.sin(2 * ph - 1.1) + 0.03 * breath + (o.ear || 0);
       for (const [sd, sg] of [['L', -1], ['R', 1]]) { const P = RG['ear' + sd], r = sg * flop * (sd === 'L' ? 1 : 0.85), Pd = [P[0], P[1] + hipDy];
         part('ear' + sd, P, R2U(...Pd), r, o.U, 1, lean); L.joint(o.id, 'ear' + sd, R2U(...rotP([RG['ear' + sd + 'Tip'][0], RG['ear' + sd + 'Tip'][1] + hipDy], Pd, r))); } }
-    // townsfolk carry a head and a hip sword cut from the body: the head turns about the neck (o.headR), the sword hangs from the belt
-    for (const nm of ['sword', 'head']) if (RG[nm] && RG.parts && RG.parts.includes(nm)) part(nm, RG[nm], R2U(RG[nm][0], RG[nm][1] + hipDy), nm === 'head' ? o.headR || 0 : -lean * 0.6 + 0.02 * breath, o.U, 1, lean);
+    // townsfolk carry a head and a hip sword cut from the body: the head turns about the neck (o.headR) and looks the other way
+    // over the shoulder (o.headF, 1 → −1: the head alone is mirrored, narrowed on the way), the sword hangs from the belt
+    for (const nm of ['sword', 'head']) if (RG[nm] && RG.parts && RG.parts.includes(nm)) part(nm, RG[nm], R2U(RG[nm][0], RG[nm][1] + hipDy), nm === 'head' ? o.headR || 0 : -lean * 0.6 + 0.02 * breath, o.U, 1, lean, nm === 'head' ? o.headF ?? 1 : 1);
     // what the near arm holds in front of the body (the porter's crate)
     if (o.front) o.front((sd) => R2U(arms[sd].Hd[0], arms[sd].Hd[1]));
     drawArm('R', o.U); held('R', o.U);

diff --git a/tools/keeperhip.py b/tools/keeperhip.py
@@ -1,0 +1,17 @@
+# Repaints the smeared dark back-fill left where rigcut removed the far arm of town_keeper__body.png with hard-pixel cloak folds in the cloak's own tones.
+from PIL import Image
+P = "live/assets/town_keeper__body.png"
+TONES = [(108, 77, 70), (101, 71, 65), (108, 77, 70), (92, 65, 60)]
+EDGE = (19, 3, 4)
+im = Image.open(P).convert("RGBA")
+for y in range(146, 216):
+    for x in range(17, 67):
+        top = 147 + (64 - x) // 6
+        left = 18 + (y * 7) % 3
+        right = 64 - (y * 5) % 2
+        if y < top or x < left or x > right or im.getpixel((x, y))[3] == 0:
+            continue
+        t = ((x + y // 2) // 6) % len(TONES)
+        c = EDGE if y == top else TONES[t]
+        im.putpixel((x, y), c + (255,))
+im.save(P)

diff --git a/TASKS_COMPLETED.md b/TASKS_COMPLETED.md
@@ -767,6 +767,8 @@
 1014. ✅ **[А][М]** Горожане: ассеты и риги. Новые персонажи города в стиле игры (кузнец, зачарователь, Хранитель огня, подёнщики трёх видов — носильщик с мешком, метельщица, ребёнок с курами, страж лестницы; состав — решение игрока 6 ноября 2026), по принятому рефу (кропы `study/refcrops/town_porter`, `town_sweeper`, `town_chickens`, `town_forge`, `town_enchanter`); куры — животные со своей ригой (шея, голова, хвост); каждый — рига из частей по цепочке `rigcut.py` / `partrig.py` / `tools/rig_*.sh`; сам торговец остаётся как есть. Цепочка «по рецепту» — подагент Sonnet 5.5 low; промпты и приёмка — основная модель. Объём L. Из R-17. → 6.11.2026: промпты `art/prompts/town_{smith,enchanter,keeper,guard,porter,sweeper,child}.txt`, `town_hens_sheet.txt`, `town_tools_sheet.txt` (задания `art/requests/town_npc_jobs.json`, кропы рефа ×4 — `art/refs_npc/`); критик ассетов `study/critique/town_npc_assets_r1.md`: перегенерированы кузнец (фартук был как у торговца, теперь почти чёрный) и зачарователь (мантия была пурпурной, колбы светились), зерно и куры приглушены по цвету. Риги `tools/rig_town_*.sh`: с ногами — кузнец, Хранитель, страж, носильщик, ребёнок (голова отдельной частью, у стража отдельный меч на бедре; `partcut.py` получил `|fill` для дыры за вырезанной частью), в мантии — зачарователь и метельщица (`robecut.py`); куры — три спрайта с мягкими костями шеи и хвоста (`art/softbones.json`); инструменты `town_tool_*` (молот, клещи, метла, мешок, ящик, копьё, посох, зерно) — для 1015. В игре: `MONSTERS.robed` (мантия, руки, голова) и голова/меч в `biped`; горожане стоят на местах из `TOWN.npcs` (шахтёр, каменщик и садовник убраны, добавлены страж у лестницы и три курицы у ребёнка; Хранитель за костром, не на месте появления героя), каждый лицом к своей работе, дышат, куры клюют и качают хвостом; размеры в `sizes.js`; QA-состояние `town_npc`. `tune.cjs`, `qa.mjs` проходят; 14 падений `motioncheck.mjs` и нет `magma_crossing` в `cavecheck.mjs` — те же, что на 6b71dec, не от этой задачи.
 
 
+
+1032. ✅ **[М]** Повороты и позы горожан (из 1026, `study/critique/town_motion_r1.md`): поворот к герою с дальней стороны переворачивает риг за кадр вместе с инструментом (молот кузнеца прыгает на 54 px за 1/60 с) — сначала голова и корпус, инструмент — в покой до смены `face`; страж оглядывается зеркалом всего спрайта каждые ~8 с (рука 39 px, копьё меняет сторону) — головой; у зачарователя рука щёлкает на 18 px в конце жеста и нет колбы; у Хранителя посох закрывает лицо, тычок в огонь — поворот посоха (рукой по IK, присед, наклон), дыра от разреза на бедре (`tools/rig_town_keeper.sh`); кузнец — ноги неподвижны, наклон включается рывком, молот лежит на наковальне 0,55 с; куры не двигаются и не реагируют на героя и зерно; поза чтения свитка у героя. QA: `folk_talk_back`, `folk_guard_look`; проверка скачков внутри циклов на шаге 1/60 с. Объём M. Из R-17. → 7.11.2026: поворот к герою с дальней стороны (`drawFolk`, `scene.js`): работа за 0,3 с сходит в позу покоя (руки к телу, инструмент отвесно, без наклона и приседа), риг поворачивается в ней, потом за 0,3 с входит поза разговора; обратно так же; горожане сообщают `npc<i>_view.face` для проверки скачков. Страж оглядывается одной головой (`headF` в `MON.biped`: голова зеркалится вокруг шеи, сужаясь на ходу), руки и копьё на месте. Зачарователь: у руки с колбой всегда есть цель (из покоя вверх и обратно), колба (`it_mp`) в руке, пламя над ней. Хранитель: посох стоит впереди с наклоном от лица, тычок — рукой по IK к огню с приседом и наклоном, низ посоха к углям; дыра на бедре закрашена тканью плаща (`tools/keeperhip.py`, последним шагом `tools/rig_town_keeper.sh`). Кузнец: молот от отскока сразу идёт вверх (не лежит на наковальне), наклон в удар и присед коленей плавные, удар приходит на скорости чуть выше средней, отскок с нуля. Куры (`henGoal`, `sim.js`): бродят у своего места, разбегаются от героя (и из-под ног ходоков), бегут к зерну мальчишки (`R.grain` — по моменту броска) и клюют там чаще; при ходьбе подпрыгивают и качаются, шея вперёд, хвост вздрагивает от испуга. Герой читает свиток: дальняя рука держит свиток перед грудью, рука с мечом опущена. QA: переходы на шаге 1/60 с `folk_talk_back`, `folk_talk_back_out`, `folk_guard_look`, `folk_smith_blow` (два удара в передышку), `folk_keeper_poke`, `folk_enchanter_flask`; в `folkCheck` — куры ходят, приходят к зерну и разбегаются от героя.
 1031. ✅ **[М]** Ходьба горожан (из 1026, `study/critique/town_motion_r1.md`, отказ на виду): метельщица скользит по маршруту без шагов — у одетого рига (`MON.robed`) нет походки: фаза шага по пройденному пути, качание подола, носки по очереди, покачивание тела; цикл `folk_sweeper_right` в `SCENE.QA()`; первый круг носильщика ломается в каждом забеге (стоит 4 с, идёт без ящика, ставит ящик «из ниоткуда» — `stepFolk`/`folkInit` первый отрезок маршрута, `hasCrate` в отрисовке по факту несения). Проверки: цикл ходьбы обязателен каждому NPC с маршрутом, несение и застрявший ходок в `folkCheck`. Объём M. Из R-17. → 6.11.2026: одетый риг (`MON.robed`, `monsters.js`) ходит: башмаки вырезаны из тела под подолом (`ROBE`: строка подола, раздел между башмаками, вынос шага) и шагают по очереди с фазой по пройденному пути (опорный стоит на полу, шаг = 4 выноса, `MON.robeStride`), тело поднимается на каждом переносе и покачивается, подол качается за шагающей ногой (`lean`). Носильщик: ходок начинает стоя на точке своего обхода (`folkInit` — на той, где поставлен, иначе на последней), первый отрезок больше не упирается в угол горна; что он сделал на точке, сим пишет в `f.lift` (взял/поставил только по факту: пришёл к «взять» с ящиком или к «поставить» без него — ничего), отрисовка гнёт его и показывает ящик только по `f.lift`. Курица `[12,17]` стояла на пути мальчишки и каждый круг останавливала его на 4 с — переставлена на `[11,18]`. Проверки: циклы `folk_<роль>_right` строятся по всем обходам `TOWN.routes` (риг без походки — ошибка QA; новый `folk_sweeper_right`), в `folkCheck` — первый круг носильщика начинается со взятия ящика в первые 15 с, взятия и постановки чередуются, нет точки «взять/поставить» впустую, ни один ходок не стоит заблокированным дольше 2 с.
 1015. ✅ **[Г][М]** Горожане со своими делами (`animation.md`): у каждого свой цикл (кузнец бьёт по наковальне, подёнщик подметает и носит ящики, торговец раскладывает товар и зазывает, зачарователь читает и жжёт колбы, спящий у костра), реплики при приближении героя, поворот к герою, не проходят сквозь друг друга; пары реплик на службу — поток речи в данных; рендер — чистая функция от `(t, state)`, циклы привязаны к часам сима. Проверки в `tools/motioncheck.mjs`. Объём M. Из R-17. → 6.11.2026: сим ведёт горожан (`R.folk`, `stepFolk` в `sim.js`): у носильщика, метельщицы и мальчишки обход по точкам (`TOWN.routes` в `dungeon.js`: носильщик берёт ящик у навеса и относит его к торговцу, метельщица метёт у костра, мальчишка ходит к курам), шаг с разгоном и торможением, обходят друг друга и героя (или ждут), застрявшая точка пропускается; горожане — твёрдые тела для героя. Герой подошёл ближе 72 px — пара реплик (вторая через 2,5 с, в следующий раз — следующая пара), горожанин поворачивается к нему, ходок останавливается; торговец зазывает издали раз в 11 с и машет. Данные — `DATA.FOLK` (реплики, часы цикла, скорость, паузы), `SHOP.calls`, `folkClock` — общие часы цикла для сима и рендера (наковальня звенит на ударе: событие `anvil`; звук `say`). Рендер — `drawFolk` в `scene.js`, руки ставит IK по точкам экрана, инструмент в руке (`MONSTERS.tool`, `hold` у `biped` и `robed`, IK рук и в `robed`): кузнец бьёт молотом по наковальне (каждый 4-й цикл — передышка), искры с наковальни; Хранитель опирается на посох, дремлет и ворошит костёр (искры из огня); страж с копьём переминается и оглядывается на двор; зачарователь водит рукой по книге, листает и жжёт колбу — синее пламя в руке; метельщица метёт, пыль из-под метлы; мальчишка поворачивается к ближней курице и бросает зерно; носильщик нагибается, поднимает и ставит ящик, несёт его перед собой, ящик ждёт у торговца. Разговор плавно сменяет работу (0,35 с), реплики — плашки над головой (`hud.js`). Кузнец стоит у наковальни, а не перед ней (клетка 35,8); в `robed` ближняя рука остаётся ближней при отражении. Проверки: `folkCheck` в `selfCheck` (обход за две минуты на 3 сидах, никто не проходит сквозь другого, ходок не сходит с пола, ящик поднят и поставлен, наковальня звенит, кузнец заговаривает и поворачивается, носильщик останавливается), в `motioncheck.mjs` — `work` (инструмент или рука движется ≥ 12 % роста), `blow` (молот падает на верх наковальни), `turn` (в разговоре передняя рука к герою с обеих сторон); `phase` не меряет руку, которая держит ношу. QA: циклы `folk_*_work`, шаги `folk_porter_right`, `folk_child_right`, переходы `folk_porter_take`, `folk_talk`, кадры `town_talk`, `town_talk_line2`, `town_folk_talk_all`, `merchant_call`. `tune.cjs`, `qa.mjs` проходят; в `motioncheck.mjs` остались те же 14 падений, что до задачи.
 

diff --git a/TASKS.md b/TASKS.md
@@ -155,8 +155,6 @@
 
 1030. ⏳ **[А]** Ассеты города на перегенерацию (из 1026, `study/critique/town_assets_r1.md`, 7,3/10): `floor_tw_tex` (арт-пиксель 4,5 вместо ≈2 px, видимая решётка 288 px, трава пятнами — тайл 128 px ×8 с отдельными пучками), `forge_tw` (читается как колодец рядом с `well_tw`, светлее стены — купольный горн с аркой к камере, камень не светлее стены), `runes_tw` (сплошной диск → тонкое кольцо рун эллипсом, пол виден в середине); диск портала — эллипс (×0,68 по высоте, `townFloor` `disc()`); одно и то же дерево шесть раз — 2–3 варианта; валуны у штольни → сланцевые блоки; лицо мальчишки; чёрный провал лестницы в крипту; иконка квестовой вещи в окне задания и журнале. Объём M. Из R-17.
 
-1032. ⏳ **[М]** Повороты и позы горожан (из 1026, `study/critique/town_motion_r1.md`): поворот к герою с дальней стороны переворачивает риг за кадр вместе с инструментом (молот кузнеца прыгает на 54 px за 1/60 с) — сначала голова и корпус, инструмент — в покой до смены `face`; страж оглядывается зеркалом всего спрайта каждые ~8 с (рука 39 px, копьё меняет сторону) — головой; у зачарователя рука щёлкает на 18 px в конце жеста и нет колбы; у Хранителя посох закрывает лицо, тычок в огонь — поворот посоха (рукой по IK, присед, наклон), дыра от разреза на бедре (`tools/rig_town_keeper.sh`); кузнец — ноги неподвижны, наклон включается рывком, молот лежит на наковальне 0,55 с; куры не двигаются и не реагируют на героя и зерно; поза чтения свитка у героя. QA: `folk_talk_back`, `folk_guard_look`; проверка скачков внутри циклов на шаге 1/60 с. Объём M. Из R-17.
-
 1033. ⏳ **[Г]** Цикл города для игрока (из 1026, `study/critique/town_game_r1.md`, 6/10): награда заданий — видом, а не размером (свиток возвращения вместо золота, опыт от уровня героя, а не этажа: на 1-м этаже 10 опыта и 140 золота при тысячах золота без дела); доска заданий на площади по `E` открывает список предложений; `!`/`?` горожан на миникарте города; слот свитка в HUD с числом и разовая подсказка «T — в город» при низком здоровье; подсказка лестницы в город «спуститься на 1-й этаж»; горожане и куры отвечают на удар. Меняет экономику — после 1034 перемерить город. Объём M. Из R-17.
 
 1034. ⏳ **[Г]** Боссы в забеге через город (из 1024): на сидах 1–320 Повелитель Демонов 4,8–5,3 % смертей при полосе 10–20, Владыка горна 7,1–9 % при 0–5, змей снимает 136–150 % здоровья при 150–250; герой приходит к боссу после похода домой (полные зелья, полка после босса), поэтому кривые боссов или полосы для города пересмотреть; заодно падение урона и зелий на 4-м и 7-м этажах (`floor damage below`, `potion use falls`). `difficulty.cjs --mode town --check` на 160 сидах, подтвердить на непересекающихся. Объём S–M. Из R-17.
